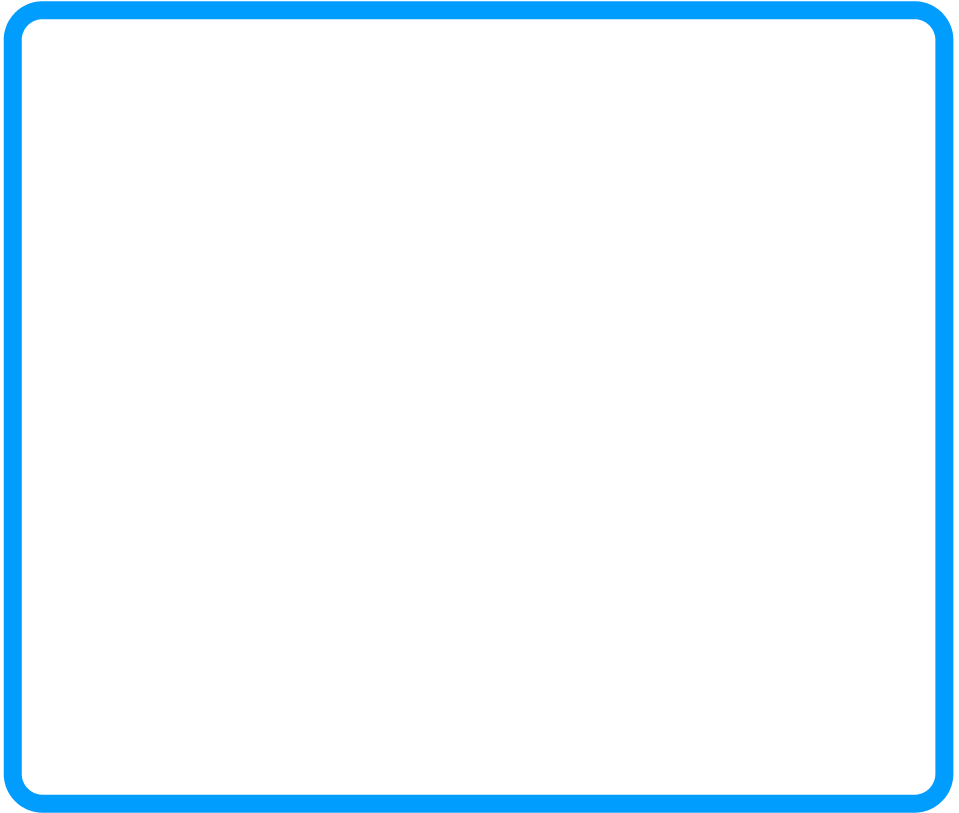
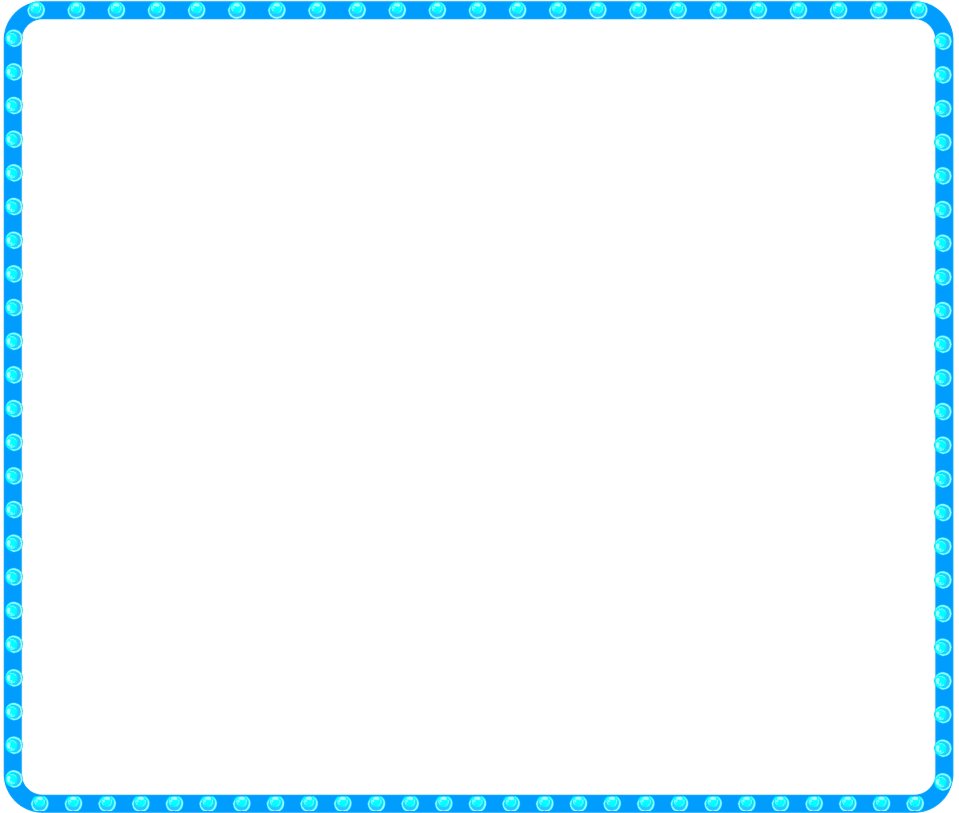
fix: length undefined, carousel elements not moving off screen, light around intermission

diff --git a/src/graphics/intermission/incentives/incent-upcoming-runs.tsx b/src/graphics/intermission/incentives/incent-upcoming-runs.tsx
@@ -13,6 +13,8 @@ const RUNS_SPEED = 2;
 const RUNS_DURATION = 10;
 const RUNS_PAGE_STAGGER = 0.05;
 
+const OFFSCREEN_X_PERCENT = 150;
+
 interface UpcomingRunsProps {
 	upcomingRuns: RunData[];
 	ref: React.Ref<TickerItemHandles>;
@@ -30,7 +32,7 @@ export function UpcomingRuns(props: UpcomingRunsProps) {
 	useImperativeHandle(props.ref, () => ({
 		animation: (tl) => {
 			tl.addLabel("runsStart");
-			tl.fromTo(containerRef.current, { xPercent: -110 }, { xPercent: 0 });
+			tl.fromTo(containerRef.current, { xPercent: -OFFSCREEN_X_PERCENT }, { xPercent: 0 });
 			runsRefs.current.reverse().forEach((runRef) => {
 				tl.add(runRef.animation(tl));
 			});
@@ -78,7 +80,7 @@ export function Run(props: RunProps) {
 		animation: (tl) => {
 			tl.fromTo(
 				containerRef.current,
-				{ xPercent: -110 },
+				{ xPercent: -OFFSCREEN_X_PERCENT },
 				{ xPercent: 0, duration: RUNS_SPEED, ease: "power3.out" },
 				`upcomingRuns+=${props.index / RUN_STAGGER_INVERSE + pageTimeOffset}`,
 			);
@@ -87,7 +89,7 @@ export function Run(props: RunProps) {
 
 			tl.to(
 				containerRef.current,
-				{ xPercent: 110, duration: RUNS_SPEED, ease: "power3.in" },
+				{ xPercent: OFFSCREEN_X_PERCENT, duration: RUNS_SPEED, ease: "power3.in" },
 				`upcomingRuns+=${props.index / RUN_STAGGER_INVERSE + RUNS_DURATION + pageTimeOffset}`,
 			);
 			return tl;

diff --git a/src/graphics/intermission/incentives/incent-prizes.tsx b/src/graphics/intermission/incentives/incent-prizes.tsx
@@ -11,6 +11,8 @@ const PRIZE_SPEED = 2;
 const PRIZE_DURATION = 5;
 const PRIZE_PAGE_STAGGER = 0.05;
 
+const OFFSCREEN_X_PERCENT = 150;
+
 interface PrizesProps {
 	prizes: Prize[];
 	ref: Ref<TickerItemHandles>;
@@ -28,7 +30,7 @@ export function Prizes(props: PrizesProps) {
 	useImperativeHandle(props.ref, () => ({
 		animation: (tl) => {
 			tl.addLabel("prizesStart");
-			tl.fromTo(containerRef.current, { xPercent: -110 }, { xPercent: 0 });
+			tl.fromTo(containerRef.current, { xPercent: -OFFSCREEN_X_PERCENT }, { xPercent: 0 });
 			prizesRefs.current.reverse().forEach((prizeRef) => {
 				tl.add(prizeRef.animation(tl));
 			});
@@ -89,7 +91,7 @@ const Prize = (props: PrizeProps) => {
 		animation: (tl) => {
 			tl.fromTo(
 				containerRef.current,
-				{ xPercent: -110 },
+				{ xPercent: -OFFSCREEN_X_PERCENT },
 				{ xPercent: 0, duration: PRIZE_SPEED, ease: "power3.out" },
 				`prizesStart+=${props.index / PRIZE_STAGGER_INVERSE + pageTimeOffset}`,
 			);
@@ -98,7 +100,7 @@ const Prize = (props: PrizeProps) => {
 
 			tl.to(
 				containerRef.current,
-				{ xPercent: 110, duration: PRIZE_SPEED, ease: "power3.in" },
+				{ xPercent: OFFSCREEN_X_PERCENT, duration: PRIZE_SPEED, ease: "power3.in" },
 				`prizesStart+=${props.index / PRIZE_STAGGER_INVERSE + PRIZE_DURATION + pageTimeOffset}`,
 			);
 			return tl;

diff --git a/src/dashboard/stage-view/status-lights.tsx b/src/dashboard/stage-view/status-lights.tsx
@@ -71,7 +71,7 @@ interface ConnectionStatusLightProps {
 
 function ConnectionStatusLight(props: ConnectionStatusLightProps) {
 	const [statusRep, setStatusRep] = useReplicant(props.replicant);
-	const issueCount = statusRep?.recentIssues.length ?? 0;
+	const issueCount = statusRep?.recentIssues?.length ?? 0;
 
 	return (
 		<StatusLight label={props.label} tooltipText={generateTooltipText(statusRep)} status={statusRep?.status}>
